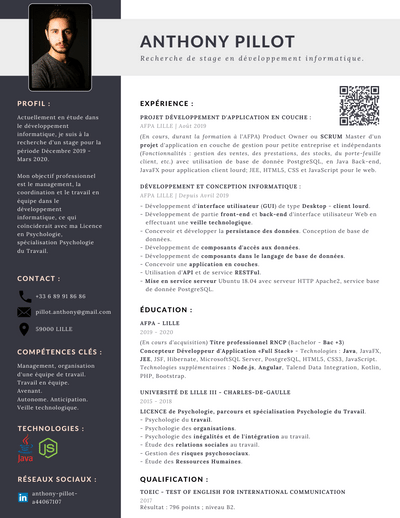
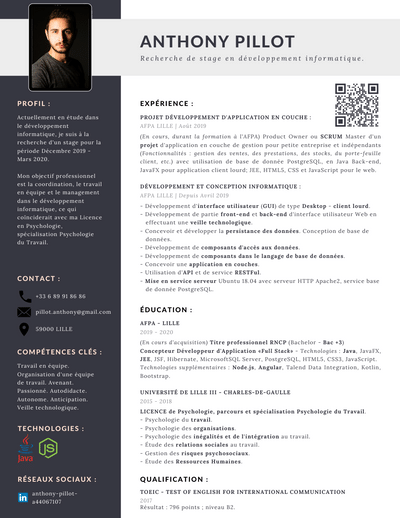
Update CV, image-cv.png et ajout '<meta content="1.0" name="version"/>'

diff --git a/public/fr/index.html b/public/fr/index.html
@@ -3,30 +3,24 @@
 <head>
     <meta charset="utf-8"/>
     <meta content="width=device-width, initial-scale = 1.0, maximum-scale=1.0, user-scalable=no" name="viewport"/>
-    <meta content="Anthony Pillot Développeur informatique à Lille - IT Developer. CV en ligne." name="Description"/>
+    <meta content="Anthony Pillot Développeur informatique à Lille - IT Developer. CV en ligne." name="description"/>
     <meta content="Anthony Pillot" name="author"/>
+    <meta content="1.0" name="version"/>
 
     <!-- Personal Favicon-->
     <link href="assets/img/logo/favicon-code.png" rel="icon">
-
     <!-- Google fonts-->
     <link href="https://fonts.googleapis.com/css?family=Lato:100,300,400,700,900" rel="stylesheet"/>
-
     <!-- Bootstrap local core CSS -->
     <link href="assets/css/bootstrap-4.3.1-dist/css/bootstrap.min.css" rel="stylesheet">
-
     <!-- Font Awesome local CSS -->
     <link href="assets/css/fontawesome-free-5.11.2-web/css/all.css" rel="stylesheet">
-
     <!-- Global CSS Files -->
     <link href="assets/css/style.css" rel="stylesheet"/>
-
     <!-- Additional CSS -->
     <link href="assets/css/style-ap.css" rel="stylesheet"/>
-
     <!-- Personal JavaScript -->
     <script src="js/tool/date-formatter.js"></script>
-
     <!-- Global site tag (gtag.js) - Google Analytics -->
     <script async src="https://www.googletagmanager.com/gtag/js?id=UA-151161310-1"></script>
     <script>
@@ -203,16 +197,19 @@
                 <h3>AFPA - LILLE</h3>
                 <small>2019 - 2020</small>
                 <br>
-                <span class="font-italic">(En cours d'acquisition)</span>
-                <span class="font-weight-bold">Titre professionnel RNCP (Bachelor - Bac +3)</span>
-                <span class="font-weight-bold">Concepteur Développeur d'Application «Full Stack»</span>
-                <br>
-                <span class="font-italic">Technologies :</span>
-                <span class="font-weight-bold">Java</span>, JavaFX,
-                <span class="font-weight-bold">JEE</span>, JSF, Hibernate, MicrosoftSQL Server, PostgreSQL, HTML5, CSS3,
-                JavaScript.
-                <br>
-                <span class="font-italic">Technologies supplémentaires :</span> <span
+                <p>
+                    <span class="font-italic">(En cours d'acquisition)</span>
+                    <span class="font-weight-bold">Titre professionnel RNCP (Bachelor - Bac +3)</span>
+                    <span class="font-weight-bold">Concepteur Développeur d'Application «Full Stack»</span>
+                </p>
+                <p>
+                    <span class="font-italic">Technologies :</span>
+                    <span class="font-weight-bold">Java</span>, JavaFX,
+                    <span class="font-weight-bold">JEE</span>, JSF, Hibernate, MicrosoftSQL Server, PostgreSQL, HTML5,
+                    CSS3,
+                    JavaScript.
+                </p>
+                <span class="font-italic">Technologies supplémentaires travaillées en parallèle :</span> <span
                     class="font-weight-bold">Node.js</span>, Talend Data Integration, Kotlin, PHP,
                 Bootstrap.
             </div>
@@ -425,10 +422,8 @@
 <!-- Scripts -->
 <!-- Bootstrap core JavaScript -->
 <script src="assets/css/bootstrap-4.3.1-dist/js/bootstrap.min.js"></script>
-
 <!-- Animation core JavaScript -->
 <script src="assets/js/animation.js"></script>
-
 <script>
     $(".main-menu li:first").addClass("active");
 
